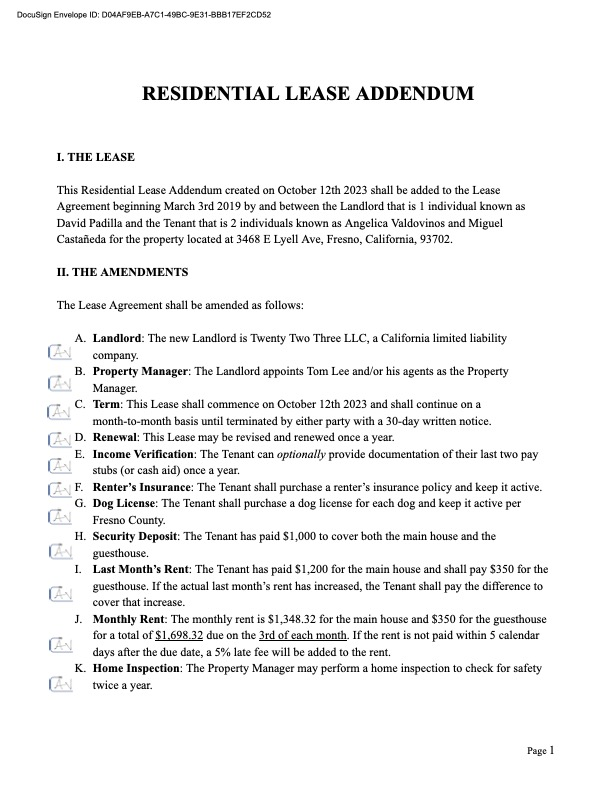
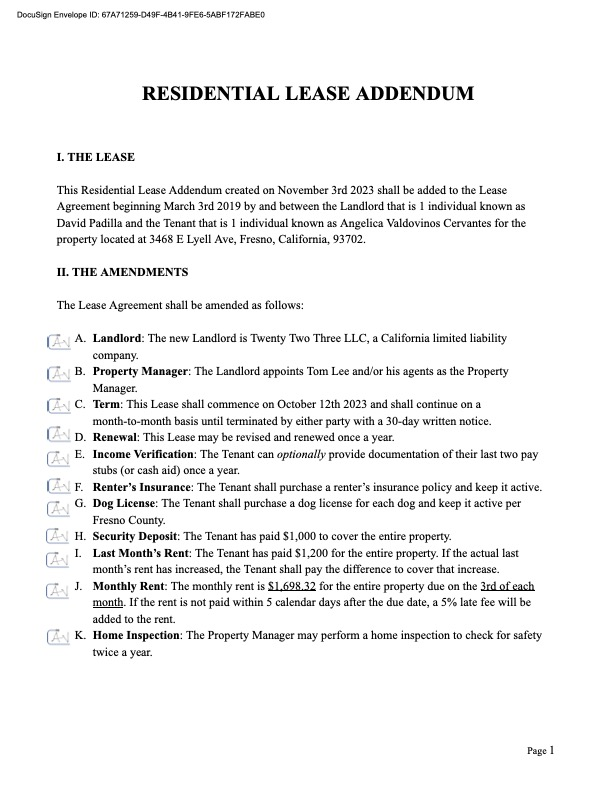
refactor

diff --git a/private/pay/index.html b/private/pay/index.html
@@ -18,18 +18,11 @@
             <h1>Pay Rent</h1>
             <h3>Due Monthly: <u>3rd of each month</u></h3>
             <ul>
-                <li>Rent for Main House: <b>$1,348.32</b></h3>
-                <li>Rent for Guesthouse: <b>$350</b></li>
-                <li><b><u>Total Rent: $1,698.32</u></b></li>
+                <li><b>Monthly Rent: <u>$1,698.32</u></b></li>
+                <li>With 5% Late Fee: <b>$1,783.23</b></b></li>
             </ul>
             <a href="https://www.zellepay.com/how-it-works" target="_blank"><button>Zelle to <b>2023@siliconwat.com</b></button></a>
-            <h3>With 5% <u>Late Fee</u></h3>
-            <ul>
-                <li>Rent for Main House: <b>$1,415.73</b></h3>
-                <li>Rent for Guesthouse: <b>$367.50</b></li>
-                <li>Total Rent: <b>$1,783.23</b></b></li>
-            </ul>
-            <p>Zelle will show recipient as <b>Che</b>. Soon that will change to <b>Twenty Two Three LLC</b></p>
+            <p>Zelle will show recipient as <b>Twenty Two Three LLC</b></p>
             <h2>Year 2023</h2>
             <p><img src="2023.jpg"></p>
             <h2>Year 2022</h2>

diff --git a/public/lease/index.html b/public/lease/index.html
@@ -20,10 +20,8 @@
             <h2>Initial Payments</h2>
             <p>Refundable Deposits + First Month Rent + Last Month Rent</p>
             <ol>
-                <li>Monthly Rent for Main House: TBD</li>
-                <li>Security Deposit for Main House: $1,200</li>
-                <li>Monthly Rent for Guesthouse: TBD</li>
-                <li>Security Deposit for Guesthouse: $350</li>
+                <li>Monthly Rent: TBD</li>
+                <li>Security Deposit: TBD</li>
                 <li>Pet Deposit: $100 per animal</li>
             </ol>
             <h2>Recurring Obligations</h2>

diff --git a/public/section8/index.html b/public/section8/index.html
@@ -28,6 +28,8 @@
             <h2>Other Government Programs</h2>
             <ul>
                 <li><a href="https://www.affordableconnectivity.gov" target="_blank">ACP Program</a>: Free High-Speed Internet!</li>
+                <li><a href="https://www.fresno.gov/publicutilities/trash-disposal-recycling/operation-clean-up/" target="_blank">Operation Cleanup</a>: Free Curbside Pickup</li>
+                <li><a href="https://www.cagliaenvironmental.com/fresno" target="_blank">Free Dump Event</a>: Free Dumping</li>
             </ul>
         </main>
         <footer>
